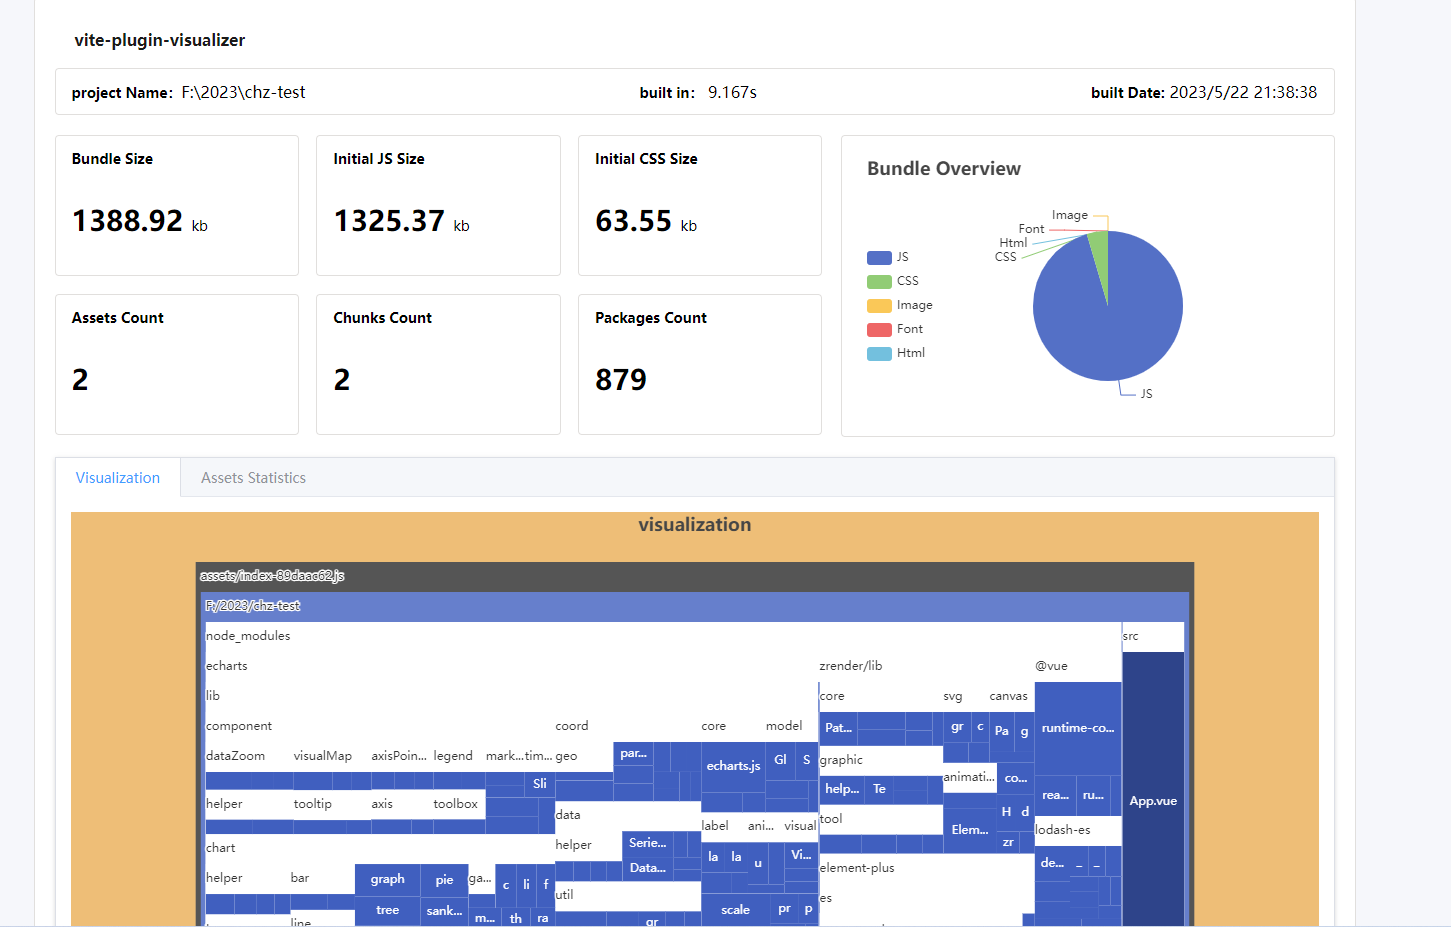
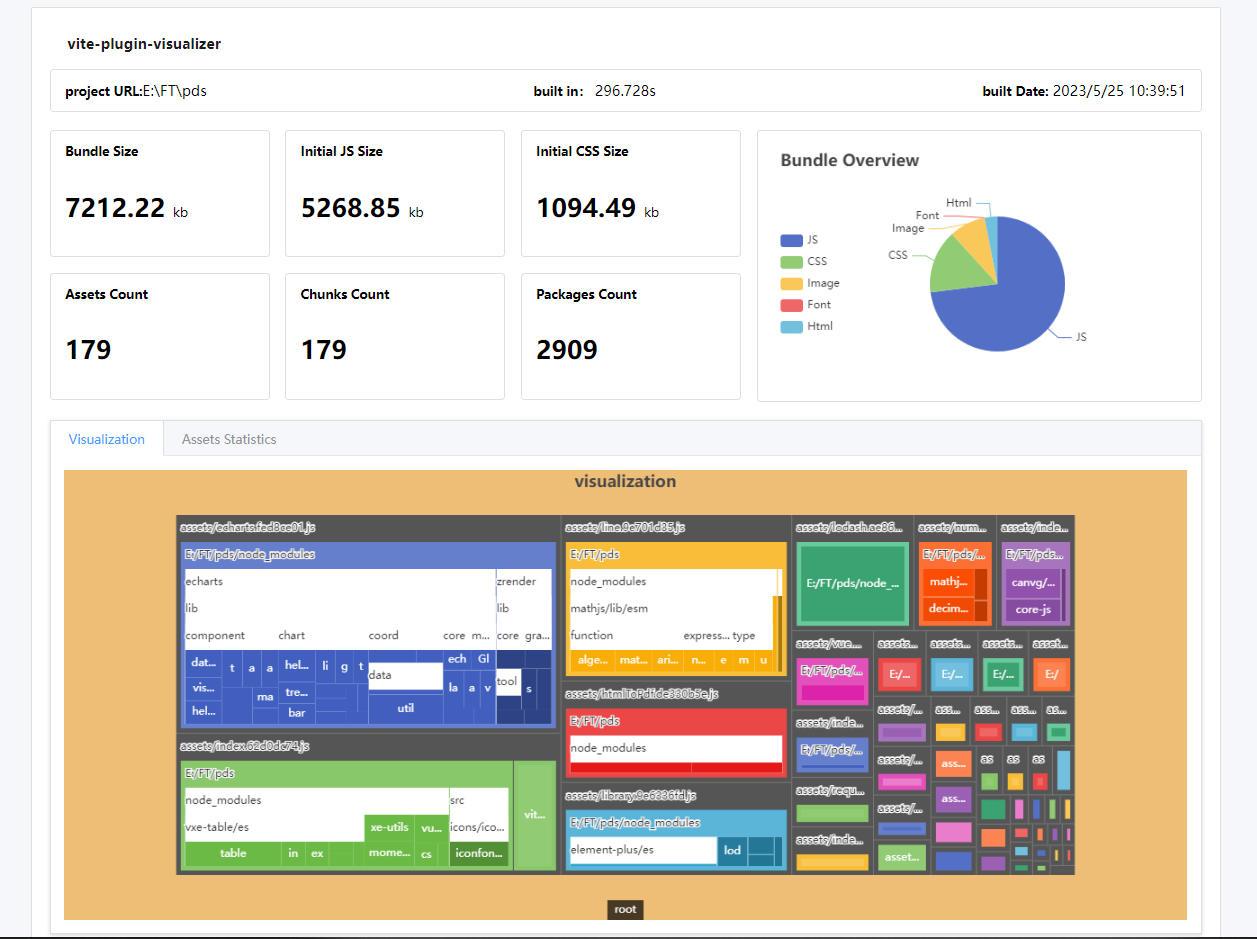
【Submission Type】 Complete core code development

diff --git a/plugin/mapper.js b/plugin/mapper.js
@@ -1,11 +1,11 @@
 // 导入相关类型和函数
 const getUid = (alphabit, size) => () => {
-    let result = "";
-    for (let i = 0; i < size; i++) {
-      result += alphabit[(Math.random() * alphabit.length) | 0];
-    }
-    return result;
-  };
+  let result = "";
+  for (let i = 0; i < size; i++) {
+    result += alphabit[(Math.random() * alphabit.length) | 0];
+  }
+  return result;
+};
 // 生成唯一前缀
 const nanoid = getUid("1234567890abcdef", 4);
 const UNIQUE_PREFIX = nanoid();
@@ -31,7 +31,7 @@ const uniqueId = () => `${UNIQUE_PREFIX}-${COUNTER++}`;
 // 同时需要将 Set 中的字符串类型转换为对象类型
 // 以便在生成模块依赖图时能够正确处理
 // 导出 ModuleMapper 类
-module.exports.ModuleMapper = class ModuleMapper {
+export const ModuleMapper = class ModuleMapper {
   // 定义节点部分和节点元数据
   // 节点部分以模块的 UID 为键，存储模块部分的长度信息
   // 节点元数据以模块的 ID 为键，存储模块的 UID 和元数据
@@ -44,7 +44,10 @@ module.exports.ModuleMapper = class ModuleMapper {
 
   // 去除模块 ID 中的项目根路径前缀
   trimProjectRootId(moduleId) {
-    if (typeof this.projectRoot === "string" && moduleId.startsWith(this.projectRoot)) {
+    if (
+      typeof this.projectRoot === "string" &&
+      moduleId.startsWith(this.projectRoot)
+    ) {
       return moduleId.slice(this.projectRoot.length);
     }
     return moduleId.replace(this.projectRoot, "");
@@ -114,7 +117,9 @@ module.exports.ModuleMapper = class ModuleMapper {
     if (!(bundleId in this.nodeMetas[moduleId].meta.moduleParts)) {
       return false;
     }
-    if (!(this.nodeMetas[moduleId].meta.moduleParts[bundleId] in this.nodeParts)) {
+    if (
+      !(this.nodeMetas[moduleId].meta.moduleParts[bundleId] in this.nodeParts)
+    ) {
       return false;
     }
     return true;

diff --git a/plugin/buildTree.js b/plugin/buildTree.js
@@ -49,7 +49,7 @@ const mergeSingleChildTrees = (tree) => {
   }
 };
 
-const buildTree = (bundleId, modules, mapper) => {
+export  const buildTree = (bundleId, modules, mapper) => {
   const tree = {
     name: bundleId,
     children: [],
@@ -80,60 +80,3 @@ const buildTree = (bundleId, modules, mapper) => {
   return tree;
 };
 
-const mergeTrees = (trees) => {
-  const newTree = {
-    name: "root",
-    children: trees,
-    isRoot: true,
-  };
-
-  return newTree;
-};
-
-const addLinks = (startModuleId, getModuleInfo, mapper) => {
-  const processedNodes = {};
-
-  const moduleIds = [startModuleId];
-
-  while (moduleIds.length > 0) {
-    const moduleId = moduleIds.shift();
-
-    if (processedNodes[moduleId]) {
-      continue;
-    } else {
-      processedNodes[moduleId] = true;
-    }
-
-    const moduleInfo = getModuleInfo(moduleId);
-
-    if (!moduleInfo) {
-      return;
-    }
-
-    if (moduleInfo.isEntry) {
-      mapper.setNodeMeta(moduleId, { isEntry: true });
-    }
-    if (moduleInfo.isExternal) {
-      mapper.setNodeMeta(moduleId, { isExternal: true });
-    }
-
-    for (const importedId of moduleInfo.importedIds) {
-      mapper.addImportedByLink(importedId, moduleId);
-      mapper.addImportedLink(moduleId, importedId);
-
-      moduleIds.push(importedId);
-    }
-    for (const importedId of moduleInfo.dynamicallyImportedIds || []) {
-      mapper.addImportedByLink(importedId, moduleId);
-      mapper.addImportedLink(moduleId, importedId, true);
-
-      moduleIds.push(importedId);
-    }
-  }
-};
-
-module.exports = {
-  buildTree,
-  mergeTrees,
-  addLinks,
-};

diff --git a/plugin/createHtml.js b/plugin/createHtml.js
@@ -1,4 +1,4 @@
-const createHtml = (allData) => {
+export const createHtml = (allData) => {
   const chartScript = `
 <!DOCTYPE html>
 <html>
@@ -117,7 +117,7 @@ body {
   <div class="header-wrap">vite-plugin-visualizer</div>
   <div class="bundle-info">
     <div>
-      <span class="bundle-info-title">project Name：</span
+      <span class="bundle-info-title">project URL：</span
       >{{ bundleObj.projectRoot }}
     </div>
     <div>
@@ -162,12 +162,12 @@ body {
       <div id="visualization" class="visualization"></div>
     </el-tab-pane>
     <el-tab-pane label="Assets Statistics">
-      <el-table :data="tableData" stripe style="width: 100%">
+      <el-table :data="tableData" height="400" stripe style="width: 100%">
         <el-table-column prop="file" label="file" width="500px">
         </el-table-column>
-        <el-table-column prop="type" label="type"> </el-table-column>
-        <el-table-column prop="size" label="size"> </el-table-column>
-        <el-table-column prop="dependencyCount" label="dependencyCount">
+        <el-table-column prop="type"  sortable  label="type"> </el-table-column>
+        <el-table-column prop="size"  sortable  label="size(%)"> </el-table-column>
+        <el-table-column prop="dependencyCount"  sortable label="dependencyCount">
         </el-table-column>
       </el-table>
     </el-tab-pane>
@@ -357,8 +357,4 @@ var app = new Vue({
   `;
 
   return chartScript;
-};
-
-module.exports = {
-  createHtml,
 };

diff --git a/plugin/index.js b/plugin/index.js
@@ -4,7 +4,7 @@
  * @Autor: codercao
  * @Date: 2023-05-18 21:34:54
  * @LastEditors: codercao
- * @LastEditTime: 2023-05-22 22:18:53
+ * @LastEditTime: 2023-05-25 11:13:22
  */
 const fs = require("fs");
 const path = require("path");
@@ -51,14 +51,12 @@ function visualizer(options = {}) {
       for (const [bundleId, bundle] of Object.entries(outputBundle)) {
         let type = path.extname(bundle.fileName).slice(1);
         let size;
-
+        size = bundle?.code?.length || bundle?.source?.length;
         switch (type) {
           case "js":
-            size = bundle.code.length;
             jsSize += size;
             break;
           case "css":
-            size = bundle.source.length;
             cssSize += size;
             break;
           case "jpg":
@@ -147,4 +145,5 @@ function visualizer(options = {}) {
   };
 }
 
-module.exports = visualizer;
+exports.visualizer = visualizer;
+exports.default = exports.visualizer;

diff --git a/README_CN.md b/README_CN.md
@@ -1,11 +1,3 @@
-<!--
- * @Description:
- * @Version: 1.0
- * @Autor: codercao
- * @Date: 2023-05-22 21:54:52
- * @LastEditors: codercao
- * @LastEditTime: 2023-05-22 22:42:48
--->
 
 # Vite Plugin Status Html
 
@@ -21,7 +13,7 @@ README | [EN README](README.md)
 
 ## 截图
 
-![pic](https://github.com/HongqingCao/vite-plugin-stats-html/blob/main/pics/vite.png?raw=true)
+![pic](https://github.com/HongqingCao/vite-plugin-stats-html/blob/main/pics/vite.gif)
 
 ## Installation
 

diff --git a/README.md b/README.md
@@ -11,7 +11,7 @@ It will give you the following packaging information:
  
 ## Screenshots
 
-![pic](https://github.com/HongqingCao/vite-plugin-stats-html/blob/main/pics/vite.png?raw=true)
+![pic](https://github.com/HongqingCao/vite-plugin-stats-html/blob/main/pics/vite.gif)
 
 ## Installation
 
